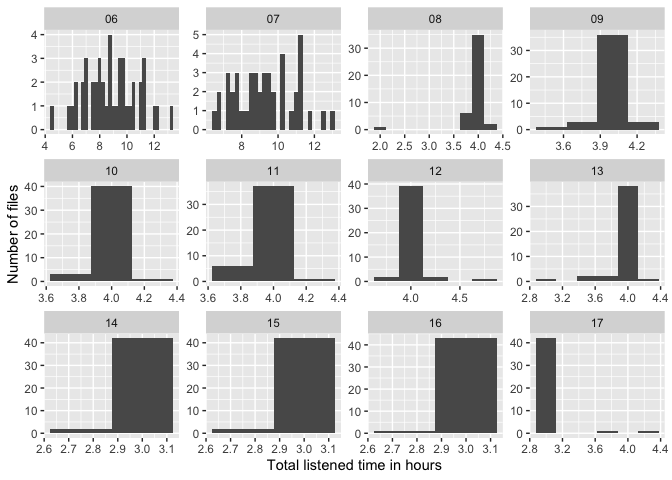
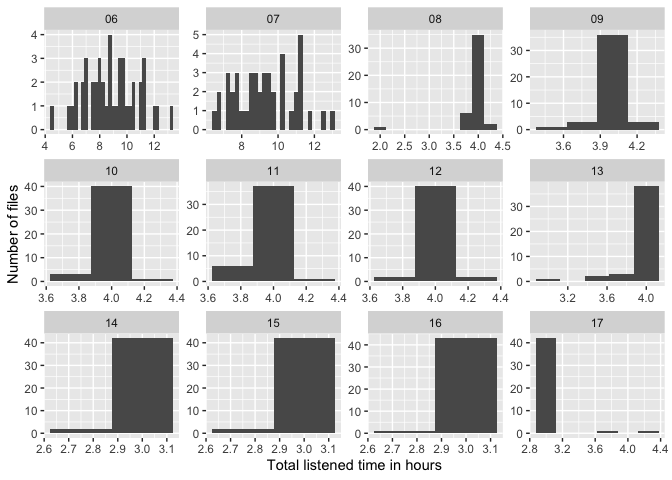
update and render the report

diff --git a/month_plots/analysis.md b/month_plots/analysis.md
@@ -650,28 +650,28 @@ subregion_time
 1
 </td>
 <td style="text-align:right;">
-10293043.29
+10283941.24
 </td>
 <td style="text-align:right;">
-4899960.50
+4893690.32
 </td>
 <td style="text-align:right;">
 0.00
 </td>
 <td style="text-align:right;">
-10650285.00
+10634500.00
 </td>
 <td style="text-align:right;">
 10800000.00
 </td>
 <td style="text-align:right;">
-14038865.00
+14034535.00
 </td>
 <td style="text-align:right;">
-16799410.00
+14400000.00
 </td>
 <td style="text-align:left;">
-▃▁▁▇▆
+▃▁▁▆▇
 </td>
 </tr>
 <tr>
@@ -685,7 +685,7 @@ num_subregion_with_annot
 1
 </td>
 <td style="text-align:right;">
-3.00
+2.99
 </td>
 <td style="text-align:right;">
 1.42
@@ -860,10 +860,10 @@ total_listen_time
 1
 </td>
 <td style="text-align:right;">
-16184368.21
+16175266.16
 </td>
 <td style="text-align:right;">
-7986210.68
+7987124.30
 </td>
 <td style="text-align:right;">
 7500240.00
@@ -872,10 +872,10 @@ total_listen_time
 10800000.00
 </td>
 <td style="text-align:right;">
-14353790.00
+14351180.00
 </td>
 <td style="text-align:right;">
-14407915.00
+14407515.00
 </td>
 <td style="text-align:right;">
 47273710.00
@@ -1088,10 +1088,10 @@ subregion_time_hour
 3.90
 </td>
 <td style="text-align:right;">
-4.67
+4.00
 </td>
 <td style="text-align:left;">
-▃▁▁▇▆
+▃▁▁▆▇
 </td>
 </tr>
 <tr>
@@ -1175,7 +1175,7 @@ total_listen_time_hour
 1
 </td>
 <td style="text-align:right;">
-4.50
+4.49
 </td>
 <td style="text-align:right;">
 2.22
@@ -1422,13 +1422,13 @@ min
 12
 </td>
 <td style="text-align:right;">
-4.01
+3.99
 </td>
 <td style="text-align:right;">
-0.14
+0.07
 </td>
 <td style="text-align:right;">
-4.83
+4.23
 </td>
 <td style="text-align:right;">
 3.86
@@ -1439,13 +1439,13 @@ min
 13
 </td>
 <td style="text-align:right;">
-3.95
+3.94
 </td>
 <td style="text-align:right;">
-0.19
+0.18
 </td>
 <td style="text-align:right;">
-4.28
+4.10
 </td>
 <td style="text-align:right;">
 3.07
@@ -2235,9 +2235,8 @@ hours (unlikely for infants this age to be awake that much) or \<8 hours
 (should double check for any errors in the file since that’s \<50% of
 full recording capacity). Note the silence_raw_hour variable here will
 be the same as the silence_time_hour variable. That is, for months 6 and
-7, silent and skip regions are **not modified**, hence we do not include
-their raw versions (instead we calculate their overlap, which is not
-done for the rest of the months).
+7, silent and skip regions **are modified**: any overlap is counted as
+*skip* and is removed from the corresponding *silence* region.
 
 <details>
 <summary>
@@ -4355,7 +4354,7 @@ num_raw_subregion
 Out of 263 (interactively calculated) recordings at 8-13 months, (one
 recording, 22_09 was never collected):
 
-3 (interactively calculated) are \>4.25 & 9 (interactively calculated)
+1 (interactively calculated) are \>4.25 & 9 (interactively calculated)
 are \<3.75 hours of listened time.
 
 Just one had \< 5 subregions (`45_10` which was only 5.33 hours long).
@@ -4861,88 +4860,6 @@ num_raw_subregion
 </td>
 <td style="text-align:right;">
 6.71
-</td>
-<td style="text-align:right;">
-5
-</td>
-<td style="text-align:right;">
-5
-</td>
-</tr>
-<tr>
-<td style="text-align:left;">
-22_13_sparse_code.cha
-</td>
-<td style="text-align:left;">
-13
-</td>
-<td style="text-align:right;">
-0.00
-</td>
-<td style="text-align:right;">
-1.00
-</td>
-<td style="text-align:right;">
-0.00
-</td>
-<td style="text-align:right;">
-2.54
-</td>
-<td style="text-align:right;">
-3.28
-</td>
-<td style="text-align:right;">
-1.22
-</td>
-<td style="text-align:right;">
-11.32
-</td>
-<td style="text-align:right;">
-4.28
-</td>
-<td style="text-align:right;">
-2.54
-</td>
-<td style="text-align:right;">
-5
-</td>
-<td style="text-align:right;">
-5
-</td>
-</tr>
-<tr>
-<td style="text-align:left;">
-08_12_sparse_code.cha
-</td>
-<td style="text-align:left;">
-12
-</td>
-<td style="text-align:right;">
-0.00
-</td>
-<td style="text-align:right;">
-0.17
-</td>
-<td style="text-align:right;">
-0.00
-</td>
-<td style="text-align:right;">
-6.70
-</td>
-<td style="text-align:right;">
-4.67
-</td>
-<td style="text-align:right;">
-0.17
-</td>
-<td style="text-align:right;">
-16.00
-</td>
-<td style="text-align:right;">
-4.83
-</td>
-<td style="text-align:right;">
-6.70
 </td>
 <td style="text-align:right;">
 5
@@ -45417,7 +45334,7 @@ NA
 5
 </td>
 <td style="text-align:left;">
-93
+101
 </td>
 </tr>
 <tr>
